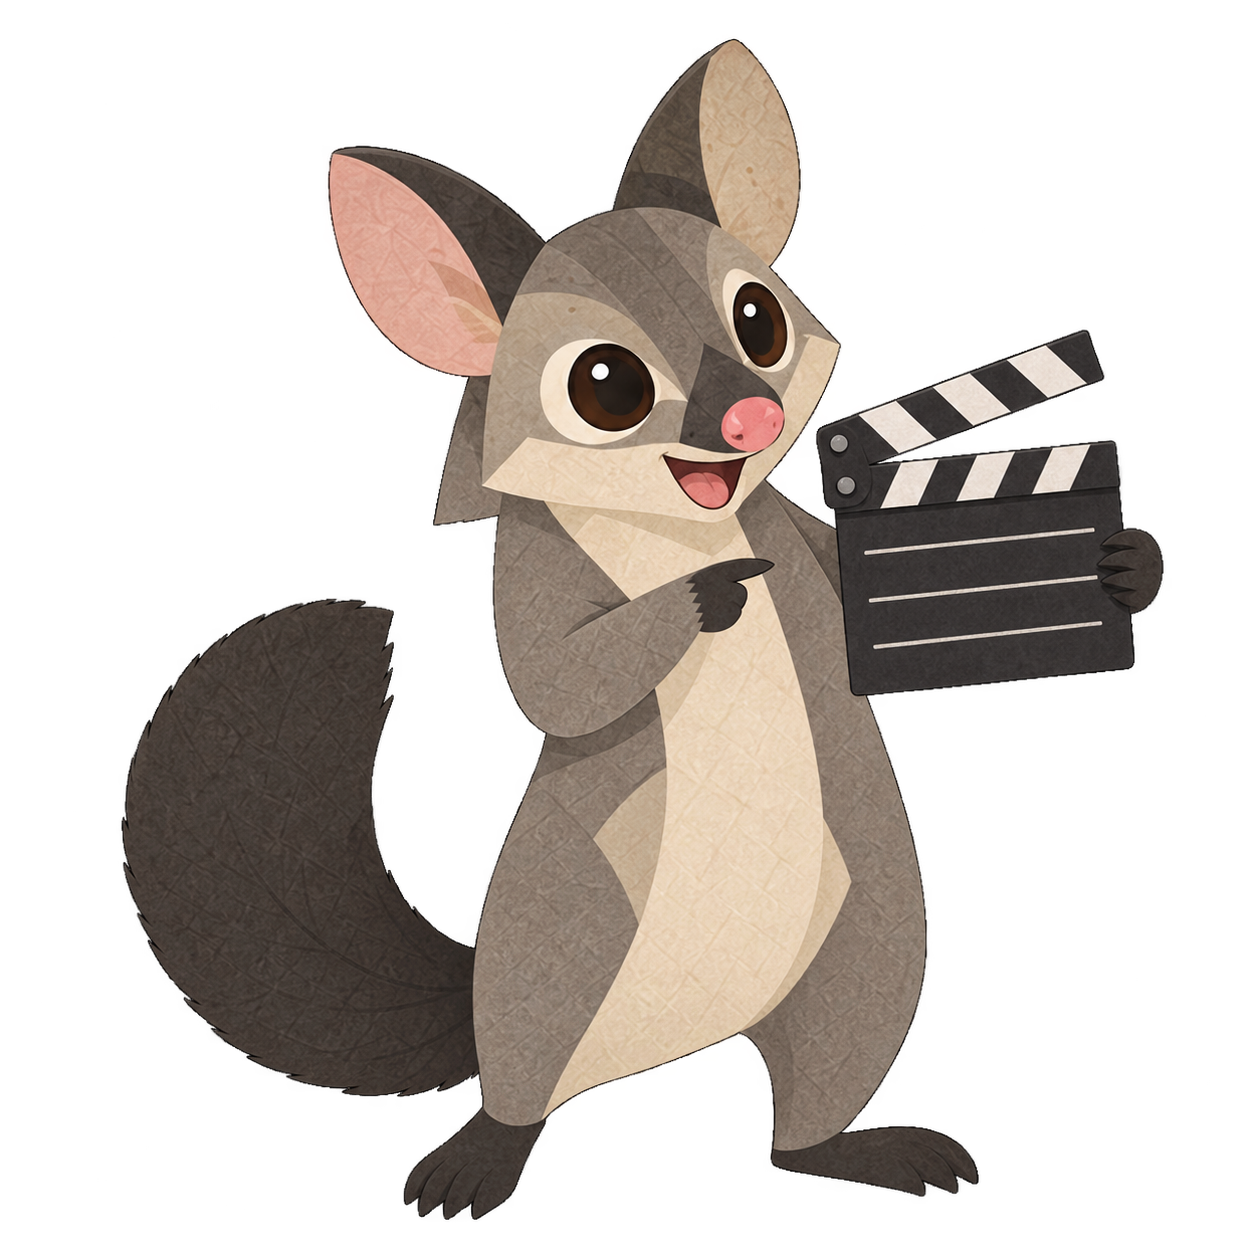
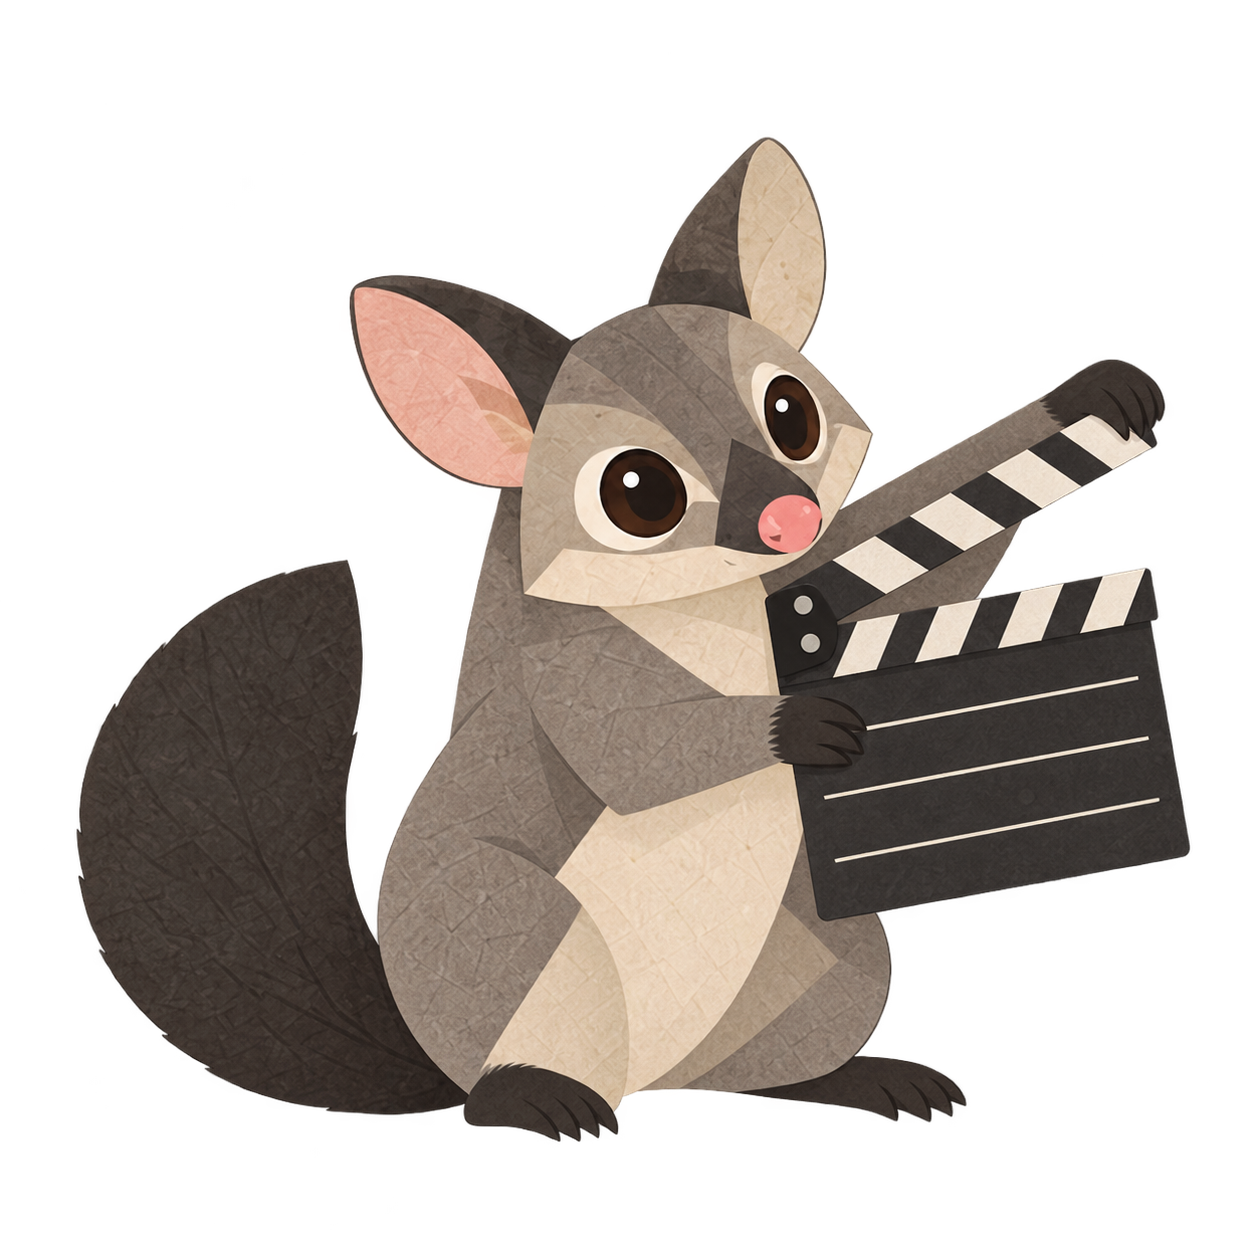
Ship approved streamer and viewer possums in Test15.3

diff --git a/docs/menu-art15.3.md b/docs/menu-art15.3.md
@@ -1,0 +1,15 @@
+# Menu art proposals 15.3
+
+Release update: approved assets are bundled in Test15.3 (versionCode 22). Native portrait/landscape reviewed, eight QR frames decoded and three mutated proofs rejected by the native review fixture. The existing APK signer was verified. Earlier proposal/build-pending notes below are historical.
+
+Owner approved pair on 2026-10-02 with viewer smile removed. Applied built-in image_gen edit to viewer only: remove the small curved mouth line and fill with surrounding cream paper texture; preserve pose, props, proportions, colors, framing and transparency. Saved resulting whole sprites into android/app/src/main/assets/mascot/menu/{streamer,viewer}.png and updated local preview. Streamer unchanged from final active clapper pose. Released APK has not yet been rebuilt with these assets. This supersedes the unapproved status below.
+
+Built-in image_gen with approved pose-01.png reference and transparent background. Unapproved whole sprites saved intact at docs/review14/revision15.3/streamer.png and viewer.png. APK unchanged. Subdued presenting streamer rejected; current proposal actively lifts the hinged clapper jaw.
+
+## Streamer prompt
+
+Create an energetic ACTION pose of the exact approved paper-cut possum in reference, a CLAPPA streamer menu sprite. It is actively ABOUT TO SNAP A CLAPPERBOARD, not passively presenting it. Compact possum seated on its haunches but pitching forward with lively intent; charcoal slate held diagonally beside chest by one paw, OTHER ARM RAISED with paw actually grasping the raised hinged striped clapper bar, about to close it. Give silhouette a strong diagonal, head tilted playfully toward the viewer with attentive bright brown eyes and a SMALL CLEAR CLOSED-MOUTH SMILE. Slight asymmetric perked ears. A raised working arm, leaning compact torso and tilted board must provide immediately visible energy at thumbnail size. Preserve reference short neck, head nestled directly in shoulders, compact pear shaped body and short legs. No elongated body, neck bulge, throat pouch, head spike, open mouth, teeth, giant grin, eyebrow cocking, extra limbs or giant baby eyes. Keep EXACT reference face proportions, tapered muzzle, pink nose, gray/taupe and cream paper shapes, thick dark brush tail and subtle paper grain. Tail fully visible curving behind on left. Restrained cut paper shapes, no outlines, no detailed fur, no scenery, no motion lines, no text. Board has striped hinged upper jaw attached at left and matching fixed lower jaw, blank ruled slate. Whole character and board fit with transparent margins. Genuinely transparent RGBA. The key change is active physical action and playful engagement instead of a neutral seated animal simply holding a prop.
+
+## Viewer prompt
+
+Edit attached approved paper possum into a VIEWER menu sprite, exact same character not a redesign. Preserve compact seated pear shaped body, short neck with head nestled in shoulders, exact original tapered muzzle, brown eyes, tiny pink nose, tall soft pointed ears, dark thick brush tail, cream/taupe paper shapes and subtle paper grain. No neck pouch or bulge, stretched body, head spike, extra cheek, cartoon grin or enlarged eyes. Viewer sits with compact haunches angled slightly toward viewer's LEFT, inquisitive slight forward lean and head tilt, alert friendly eyes and tiniest upturned closed mouth. Both small forepaws gently holding charcoal binoculars just BELOW the upper chest; leave face and neck wholly visible. Binocular lenses angled toward left-front. Tail curls on right with full thick brush silhouette. Maintain original body proportions and simple silhouette, low detail flat cut paper planes, no outlines, no fur strokes, no teeth, no eyebrow cocking. Entire complete animal and props, transparent RGBA background with padding. This should unmistakably be the exact reference possum in a new observing pose, not a generic cute cartoon. No text.

diff --git a/docs/menu-art15.2.md b/docs/menu-art15.2.md
@@ -1,0 +1,13 @@
+# Menu art proposals 15.2
+
+Unapproved proposals generated with built-in image_gen, native transparent alpha, exact approved pose-01.png reference. Rejected Test15.1 open smiles and rear head spike are not design references. First subdued streamer revision also rejected. Current candidate uses a lifted standing posture, open-paw presenting gesture and small closed-mouth smile. Viewer holds binoculars at chest in an attentive seated pose.
+
+Saved complete assets: docs/review14/revision15.2/streamer.png and viewer.png. No anatomical slicing or alpha erasure. Preview only; released APK unchanged.
+
+## Streamer prompt
+
+Generate one transparent full-body CLAPPA streamer possum sprite. Attached image is the exact approved character identity/style reference. Preserve its paper-cut taupe/cream shapes, subtle paper texture, brown eyes, pink nose, tapered muzzle, tall ears and thick dark brush tail. NEW POSE with obvious upbeat energy: standing with chest lifted, slight lively sideways lean, head held up with a curious small tilt, both ears perked. One paw holds a small charcoal clapperboard proudly beside the torso at shoulder height, the other arm makes a clear open-palmed presenting gesture toward it. Feet planted with one slightly forward; tail curves to balance pose. Expression: alert delighted eyes at the reference size, and a small unmistakably warm CLOSED-MOUTH smile, gently upturned mouth corners. Friendly confidence and enthusiasm, not depressed, sleepy, timid or blank. NO open mouth, teeth, huge cartoon grin, raised skeptical eyebrow, enlarged chibi head, or spike/crest behind head. Smooth rounded rear head silhouette. Keep reference proportions and restrained layered paper illustration, no outlines, no photoreal fur, no extra costume. Board has matching striped upper/lower clapper jaws and blank ruled slate, no text. Full complete character, tail and props fit within canvas with transparent margins. Transparent RGBA background. Energy must come from lifted posture, presenting arm, head tilt and perked ears, with subtle positive facial expression. This is an energetic pose of the reference animal, not a more cartoonish redesign.
+
+## Viewer prompt
+
+Create one transparent full-body VIEWER menu sprite of EXACT approved Australian brushtail possum in attached reference. Match brown eyes, tapered muzzle, tiny pink nose, cream belly, taupe gray layered paper shapes, dark thick bushy tail, subtle paper grain and restrained proportions. New engaged curious pose: seated on haunches, leaning slightly forward toward viewer's left, head lifted and turned toward viewer, ears perked at different natural angles. Hold charcoal binoculars with both paws at chest height below chin, face fully visible. Small subtle CLOSED-mouth pleased smile, no open mouth or teeth, no eyebrow cocking, no huge eyes or chibi redesign. Binoculars two simple cylinders with muted glass. Thick brush tail curls behind on viewer's right, entire silhouette visible. Smooth back of head no spike or crest. Clean cut-paper illustration, no outline, no detailed fur, no origami, no costume, text or scenery. Distinct attentive observer stance rather than upright standing presenter. Full body and props, padded transparent canvas, actual RGBA transparency.

diff --git a/README.md b/README.md
@@ -10,7 +10,7 @@ CLAPPA pairs an Android phone with OBS. Tap the clapperboard, hear a little musi
 
 No CLAPPA account. No hosted proof storage. Your signing identity and original evidence stay with you.
 
-**[Download the Test15.1 preview](https://github.com/dagnabbitdamien/clappa/releases/tag/test15.1)** · [Build notes](docs/test15.1.md) · [Developer setup](docs/GITHUB.md)
+**[Download the Test15.3 preview](https://github.com/dagnabbitdamien/clappa/releases/tag/test15.3)** · [Build notes](docs/test15.3.md) · [Developer setup](docs/GITHUB.md)
 
 ## For streamers
 
@@ -47,7 +47,7 @@ CLAPPA binds evidence for human judgment. It is not an automatic AI detector. A 
 - [Current architecture](docs/CURRENT-ARCHITECTURE.md)
 - [Protocol and verification](protocol/README.md)
 - [Full design specification](DESIGN_SPEC.md)
-- [Latest build notes](docs/test15.1.md)
+- [Latest build notes](docs/test15.3.md)
 
 Run the protocol/verifier tests with `pnpm install --frozen-lockfile` followed by `pnpm test` (Node.js 22+). Android and OBS require their respective native toolchains. Private keys, local recordings, proof photos and build caches are excluded from this repository.
 
@@ -56,5 +56,6 @@ No project license has been selected. Existing third-party licenses and asset at
 ## A peek inside
 
 <img src=".github/images/menu.png" width="300" alt="CLAPPA mode menu with approved paper possum illustrations and orange accents">
+
 
 

diff --git a/docs/test15.3.md b/docs/test15.3.md
@@ -1,0 +1,7 @@
+# Test15.3 — approved menu artwork
+
+Android 0.3.0-test15.3 (22) installs the owner-approved whole-sprite menu pair: streamer lifting the clapper bar and viewer holding binoculars without a smile. Existing challenge, success and error sprites remain unchanged. The only tagline is **No cap! Clap!**.
+
+Presentation-only release. The OBS plugin, protocol, camera behavior, viewer verification and Twitch integration are unchanged from Test15.1. Live Twitch account authorization and real audience-to-phone delivery remain unverified; prior fixture checks are not live authorization evidence.
+
+Update the Android APK over the existing installation. The package retains the established signing certificate. The included OBS DLL is unchanged from Test15. Native portrait and landscape menu checks are recorded in the local review assets.

diff --git a/docs/release15.3.md b/docs/release15.3.md
@@ -1,0 +1,10 @@
+# Approved menu possums
+
+The Streamer menu now uses the approved possum operating its clapperboard. The Viewer menu uses the approved binoculars pose with the small smile removed. Both preserve complete sprites and the paper texture.
+
+- Android: 0.3.0-test15.3 (22), compatible update over the previous test build.
+- Full kit includes the APK, OBS plugin and local verifier.
+- OBS plugin and proof behavior are unchanged from Test15.1.
+- Native portrait and landscape menus reviewed.
+
+This remains a test release. Live Twitch authorization and live audience invitation delivery have not been confirmed.
